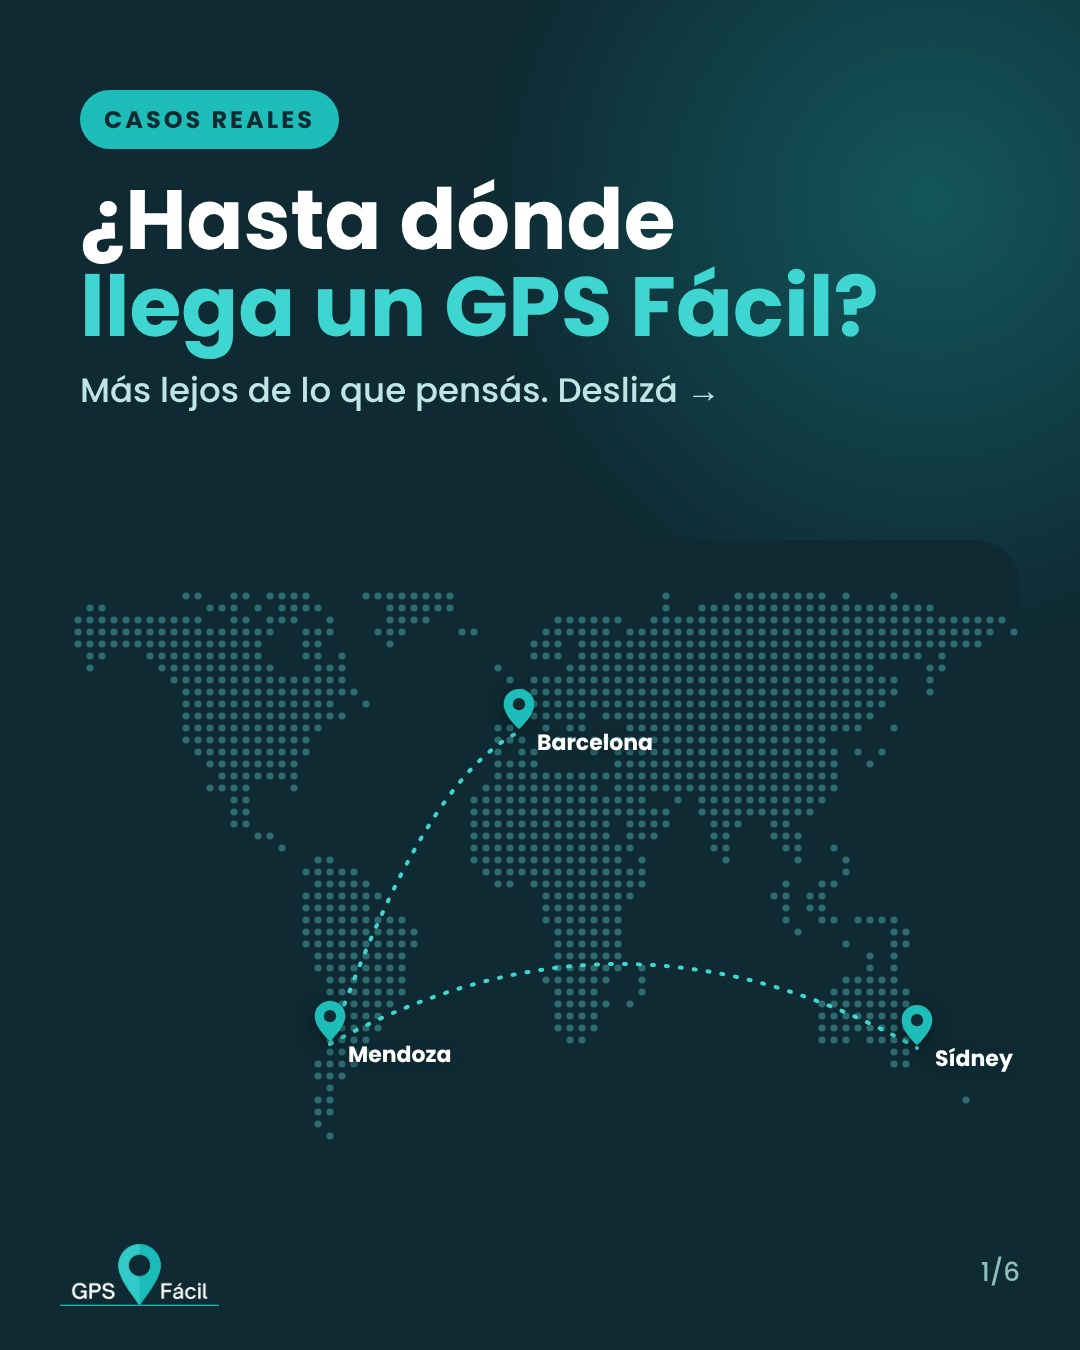
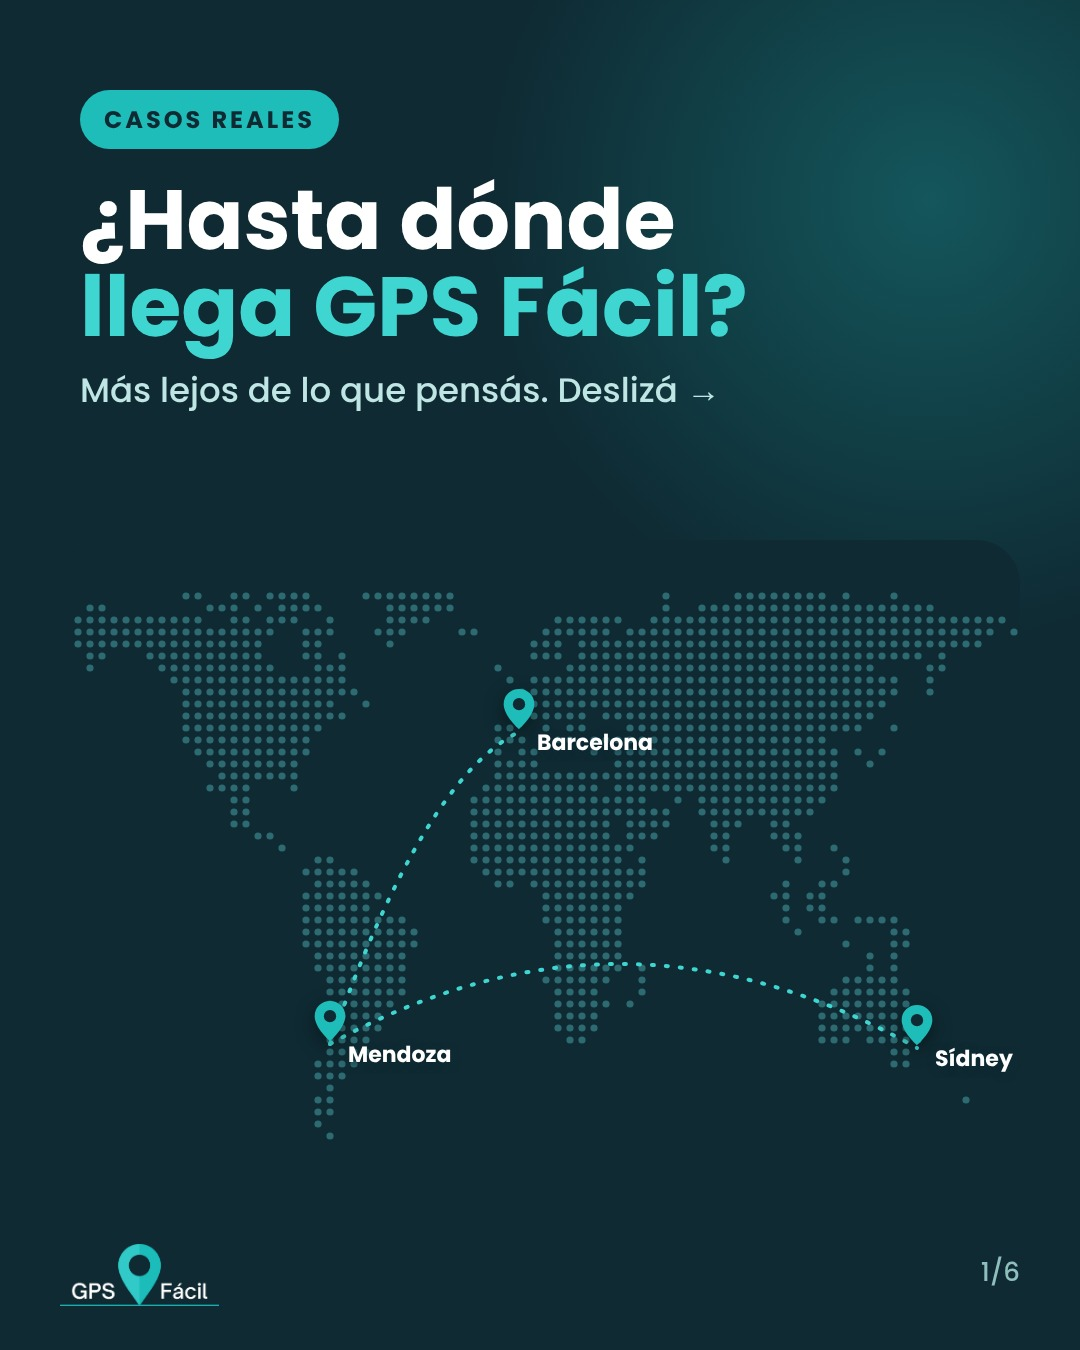
Placa 1: ¿Hasta dónde llega GPS Fácil? (corrección de Eze)
Claude-Session: https://claude.ai/code/session_01WwFSJ3uYy8LM81r9kF1RGm

Changed region(s): [[0.3056, 0.1867, 0.825, 0.2489]]

diff --git a/tools/gen_donde_llega.py b/tools/gen_donde_llega.py
@@ -62,7 +62,7 @@ pins = ''.join(PIN.format(s=46, x=f'{x:.0f}', y=f'{y:.0f}') for x, y in P.values
 labels = ''.join(f'<div style="position:absolute;left:{x+18:.0f}px;top:{y-6:.0f}px;font-weight:700;font-size:22px;color:#fff;text-shadow:0 2px 8px #0F2A33">{n}</div>'
                  for n, (x, y) in P.items())
 pages[1] = f'''<div class="glow" style="right:-300px;top:-250px"></div>
-<div class="t"><span class="k tq">CASOS REALES</span><h1>¿Hasta dónde<br><span>llega un GPS Fácil?</span></h1>
+<div class="t"><span class="k tq">CASOS REALES</span><h1>¿Hasta dónde<br><span>llega GPS Fácil?</span></h1>
 <p>Más lejos de lo que pensás. Deslizá →</p></div>
 <div class="card" style="top:540px;height:640px;background:#0F2A33;box-shadow:none">
 <div style="position:absolute;left:0;top:50px;width:{W}px;height:{H}px"><svg width="{W}" height="{H}">{svg}{arcs}</svg>{pins}{labels}</div></div>
